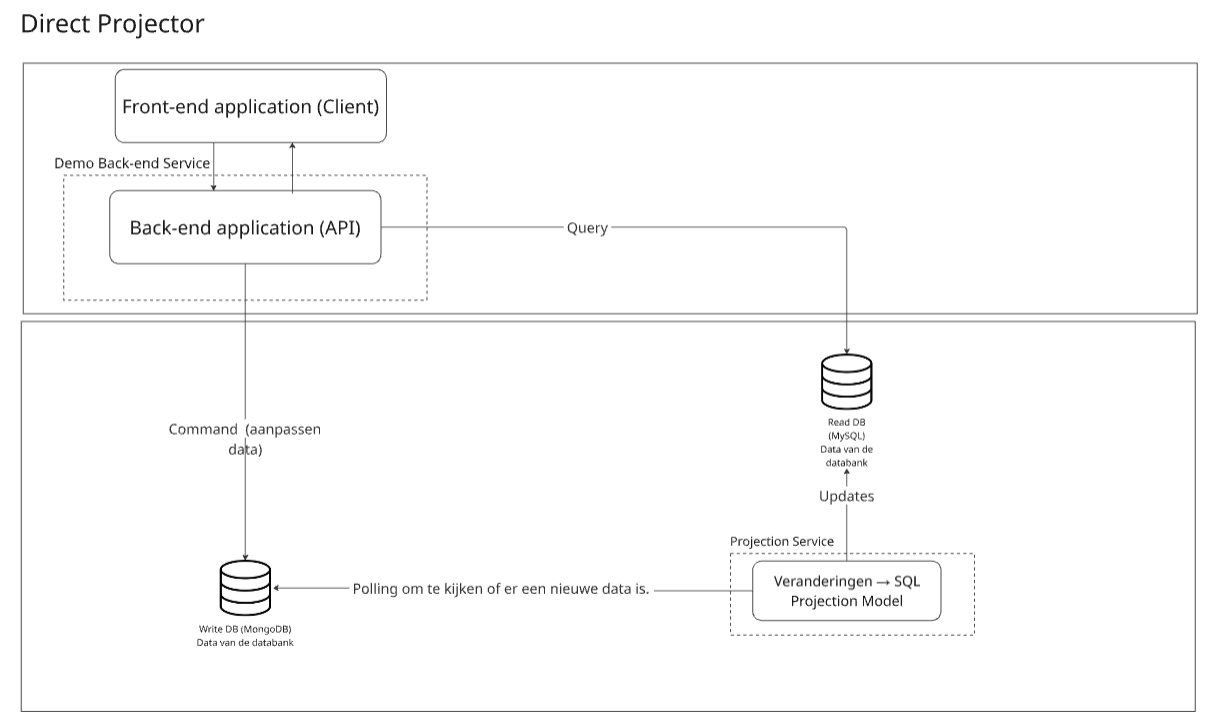
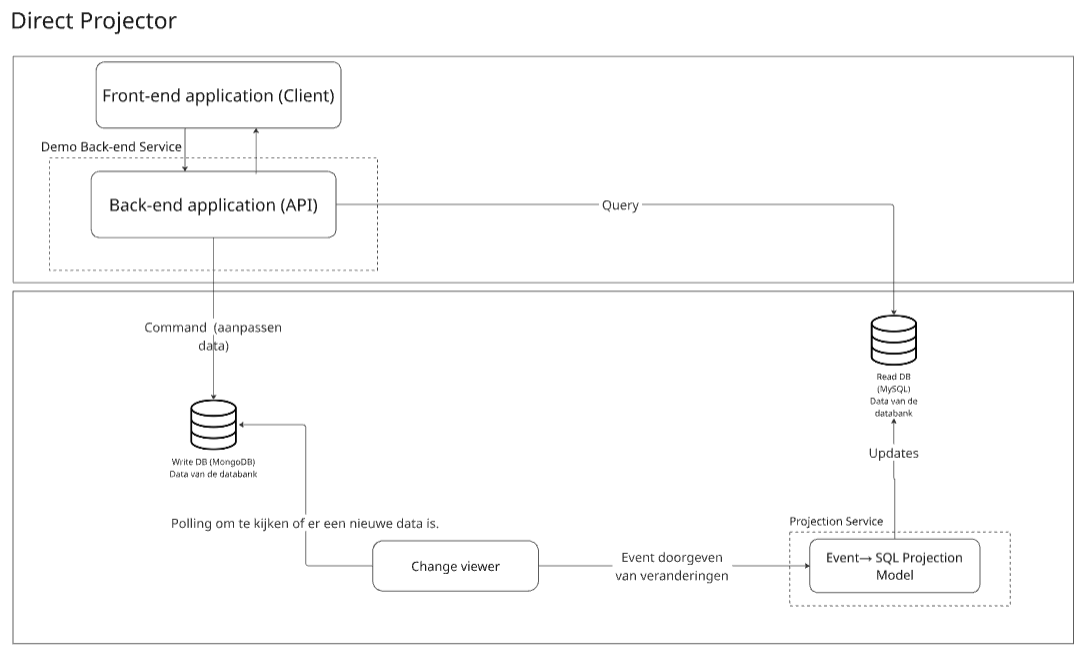
Add pictures of architecture schemas

diff --git a/RESEARCH.md b/RESEARCH.md
@@ -186,16 +186,22 @@ Zowel Java als C# zijn zeer goede kandidaten. Ze zijn allebei zeer betrouwbaar e
 #### Direct projection 
 Een direct projection zal kijken naar voor veranderingen in de data van de write databank. Eenmaal er een verandering word waargenomen zal deze verandering worden geprojecteerd door de projector zodat de read databank kan worden aangepast. Een direct projection is geen goede oplossing aangezien je later geen data zal kunnen recoveren en het gaat ook moeilijk worden indien er een verandering gemist word. Ook zullen veranderingen niet meer kunnen worden waargenomen eenmaal de verandering voorbij is. 
 
-![Foto van direct projection architectuur](images_research/direct_projector.png)
+![Foto van direct projection architectuur](images_research/direct_projector_synchronisation.png)
 
 #### Outbox
 Deze architectuur houd de verschillende evenementen bij in een table/collectie in de databank. Vervolgens kan dan gekeken worden naar de outobox voor veranderingen dit opnieuw door polling op het log bestand. Als dan een verandering plaats vind word de verandering opnieuw door gegeven aan een projector. Waarna deze de aanpassing toepast op de read databank. Recovery is mogelijk indien je het laatste geslaagde event bij houd. Op basis van dit event kan je bepalen wat het volgende event is dat aanwezig is in de outbox. Verder is het atomisch door dat er gebruik word gemaakt van verschillende databank transacties. En omdat de projection kan zeggen tegen de outbox dat een event gelukt is. Dit zorgt ervoor dat deze optie atomisch is.
 
-#### Message Broker
+![Foto van outbox architectuur](images_research/outbox_synchronisation.png)
+
+#### Message/Event Broker
 Deze optie maakt gebruik van een message broker en polling. Je kan een message broker dusdanig configureren dat deze de verschillende events persistent bijhoud wat dus wilt zeggen dat de events niet verloren indien de message broker neer zou gaan. Er is eigenlijk geen gemakkelijke manier om dit atomic te maken tenzij je een outbox toevoegt of gebruik maakt van saga's.
+
+![Foto van broker architectuur](images_research/broker_synchronisation.png)
 
 #### Change stream
 Deze synchronisatie mogelijkheid zal gebruik maken van een mongodb specifiek feature. Namelijk Change stream dit is in staat om veranderingen in de databank te zien en vervolgens deze veranderingen te sturen naar verschillende processen dat hier op luisteren. De projector zal dan luisteren en de veranderingen toepassen. De feature vervangt dus eigenlijk het polling mechanisme van een direct projector. Het grote verschil met polling is dat er niet constant een process is dat kijkt of er iets veranderd is inplaats hiervan zal de mongodb zelf zeggen er is iets veranderd alsjeblieft hier heb je de informatie van wat er precies gebeurd is. Dit wilt dus ook zeggen dat change stream dus ook niet atomisch is en recovery geen optie zal zijn net zoals bij een polling mechanisme het is echter wel veel performanter want je gaat niet steeds de mongodb bevragen.
+
+![Foto van change stream architectuur](images_research/change_stream_synchronisation.png)
 
 #### Conclusie
 |                      | Atomic | Schaalbaarheid | Recovery | Event Sourcing later | Snelheid | Complexiteit |
@@ -204,6 +210,7 @@ Deze synchronisatie mogelijkheid zal gebruik maken van een mongodb specifiek fea
 | **Direct Projector** | niet | niet | niet | slecht | normaal | zeer simpel |
 | **Outbox** | zeer goed | goed | goed | goed | goed | complex |
 | **Message Broker** | mogelijkheid tot (meer complexiteit) | zeer goed | goed | goed | zeer goed |zeer complex |
+| **Outbox + Change stream** | zeer goed | goed | goed | goed | zeer goed | complex |
 
 De direct projector en change stream zijn duidelijk geen goede opties aangezien ze bij een mogelijk falen van de databank niet kunnen recoveren. Verder is de change stream mongodb specifiek en zal dus niet van toepassing zijn op andere soorten databanken.
 
@@ -211,12 +218,10 @@ De message broker is de meeste schaalbare optie maar is zeer complex om te imple
 
 De outbox is stabiel en betrouwbaar het is ook de enige manier dat zonder veel moeite kan garanderen dat een event of wel uitgevoert is of niet. 
 
-Uiteindelijk hebben we gekozen voor een combinatie van zowel de outbox als de change stream. Deze combinatie zorgt ervoor dat we er voor kunnen zorgen dat alles atomic verloopt. De change stream zorgt er dan weer voor dat we niet constant moeten pollen en dus minder overhead zullen hebben binnen mongodb. Door middel van ports & adapters kunnen we er dan voor zorgen dat we gemakkelijk kunnen schakelen naar een polling mechanisme indien de databank zou veranderen. Wat voor een volgend resultaat zou zorgen in dezelfde evaluatie matrix als hierboven.
+Uiteindelijk hebben we gekozen voor een combinatie van zowel de outbox als de change stream. Deze combinatie zorgt ervoor dat we er voor kunnen zorgen dat alles atomic verloopt. De change stream zorgt er dan weer voor dat we niet constant moeten pollen en dus minder overhead zullen hebben binnen mongodb. Door middel van ports & adapters kunnen we er dan voor zorgen dat we gemakkelijk kunnen schakelen naar een polling mechanisme indien de databank zou veranderen.
 
-|                      | Atomic | Schaalbaarheid | Recovery | Event Sourcing later | Snelheid | Complexiteit |
-| -------------------- | ------ | -------------- | -------- | ----------------------- | -------- | ------------ |
-| **Outbox + Change stream** | zeer goed | goed | goed | goed | zeer goed | complex |
-
+Wat het volgende schema maakt:
+![Foto gekozen architectuur combinatie outbox + change stream](./images_research/outbox_change_stream_sync.png)
 
 ### Opslaan van events
 #### Event Sourcing
